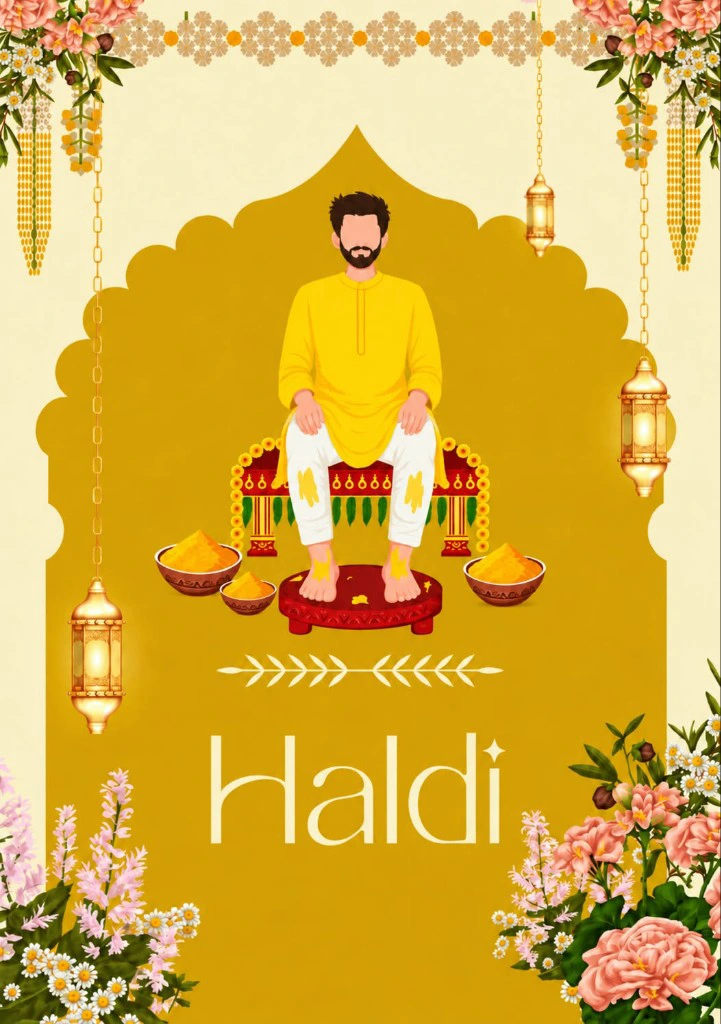
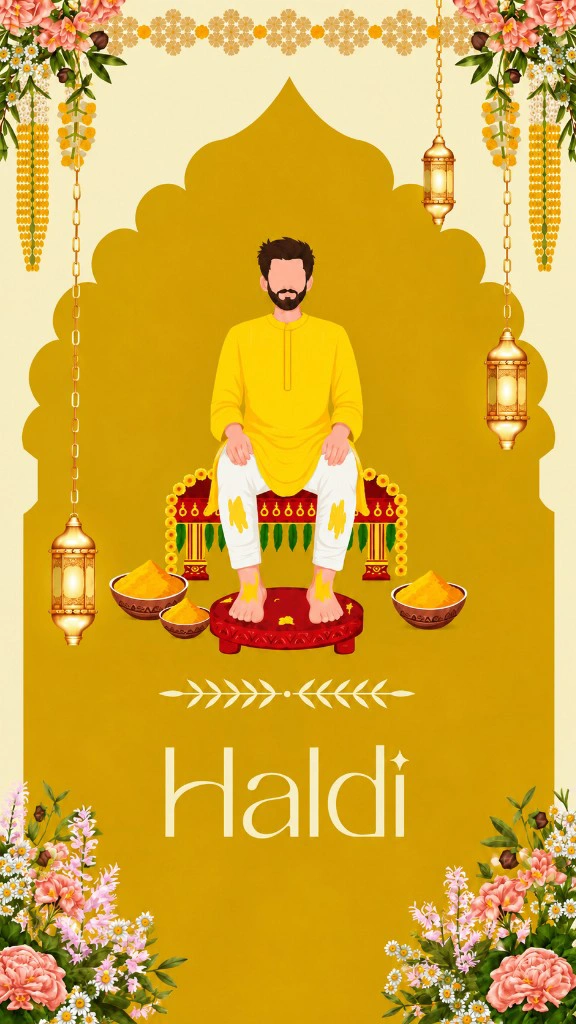
is the b

diff --git a/bhilai/index.html b/bhilai/index.html
@@ -279,8 +279,8 @@ const CFG = {
   quote: "Two Souls · One Destiny",
   verse: '"So they are no longer two, but one flesh. Therefore what God has joined together, let no one separate."<span class="verse-ref">Mark 10:8-9</span>',
   celebrations: [
-    { name: "Haldi", date: "24.11.26", time: "10am onwards", address: "UTS Campus, Mission Road, Buxibazar, Cuttack, Odisha 753001", mapLink: "https://maps.app.goo.gl/LcyJcW472bVHNSvU9", photo: "./static/haldi.png", dressCode: "Yellow dress" },
-    { name: "Mehendi", date: "24.11.26", time: "7pm onwards", address: "UTS Campus, Mission Road, Buxibazar, Cuttack, Odisha 753001", mapLink: "https://maps.app.goo.gl/LcyJcW472bVHNSvU9", photo: "./static/mehendi.png" },
+    { name: "Haldi", date: "23.11.26", time: "10am", address: "Mennonite Church Bhilai, Hospital Sector, Bhilai, Chhattisgarh 490009", mapLink: "https://maps.app.goo.gl/th8nvbmoRDPJPR2e9", photo: "./static/haldi.png" },
+    { name: "Prayer Meeting", date: "23.11.26", time: "7pm", address: "Mennonite Church Bhilai, Hospital Sector, Bhilai, Chhattisgarh 490009", mapLink: "https://maps.app.goo.gl/th8nvbmoRDPJPR2e9", photo: "./static/prayer_meeting.png" },
     { name: "Wedding", date: "25.11.26", time: "4:30pm", address: "Cuttack Odia Baptist Church, Odisha", mapLink: "https://maps.app.goo.gl/m2TNUK81Kg5a2ZfX9", photo: "./static/wedding.png" },
     { name: "Wedding Dinner", date: "25.11.26", time: "8:30pm onwards", address: "UTS Campus, Mission Road, Buxibazar, Cuttack, Odisha 753001", mapLink: "https://maps.app.goo.gl/LcyJcW472bVHNSvU9", photo: "./static/wedding-dinner.png" },
     { name: "Reception", date: "27.11.26", time: "7pm onwards", address: "Officers' Association B.S.P.- Pragati Bhawan, Civic Center, Sector 6, Bhilai, Chhattisgarh 490006", mapLink: "https://maps.app.goo.gl/5GL6YX9SFwK1peZL8", photo: "./static/reception.png" }
